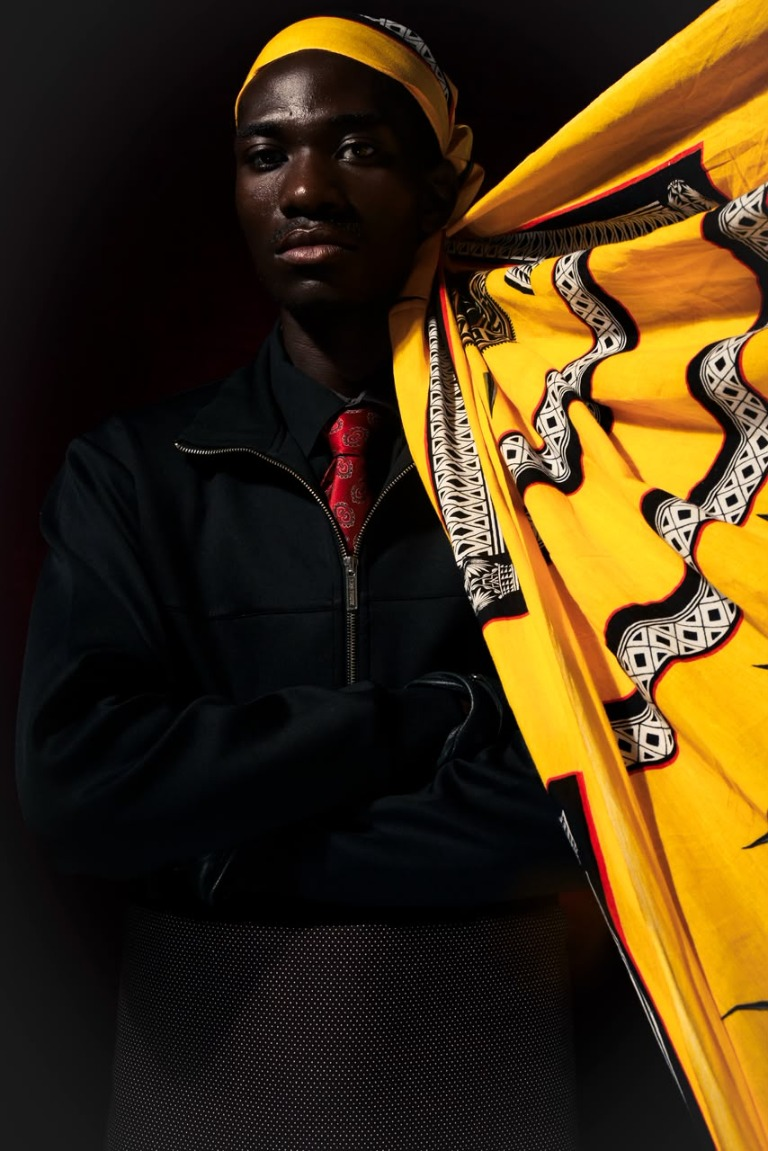
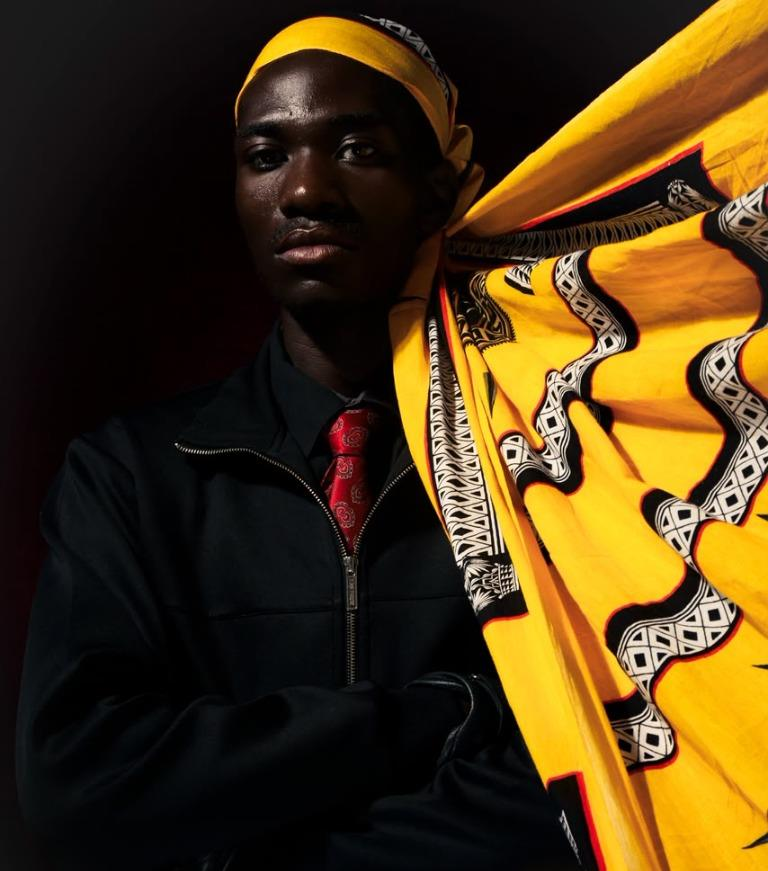
Crop DAMUSA story image for layout

diff --git a/index.html b/index.html
@@ -86,7 +86,7 @@
     .product-info { padding-top: 14px; font-size: 12px; }
     .product-meta { margin-top: 7px; color: var(--muted); font-size: 10px; line-height: 1.7; }
     .story { display: grid; grid-template-columns: .85fr 1.15fr; gap: 8vw; align-items: center; }
-    .story-image { max-height: 520px; height: 100%; min-height: 350px; }
+    .story-image { max-height: 520px; height: 100%; min-height: 350px; object-position: center top; }
     .story-copy p { max-width: 560px; margin: 23px 0; color: var(--muted); font-size: 13px; line-height: 2; }
     .about-details { display: grid; grid-template-columns: repeat(2, minmax(0, 1fr)); gap: 19px 28px; max-width: 560px; margin: 30px 0; padding-top: 23px; border-top: 1px solid var(--line); }
     .about-details div { min-width: 0; }
